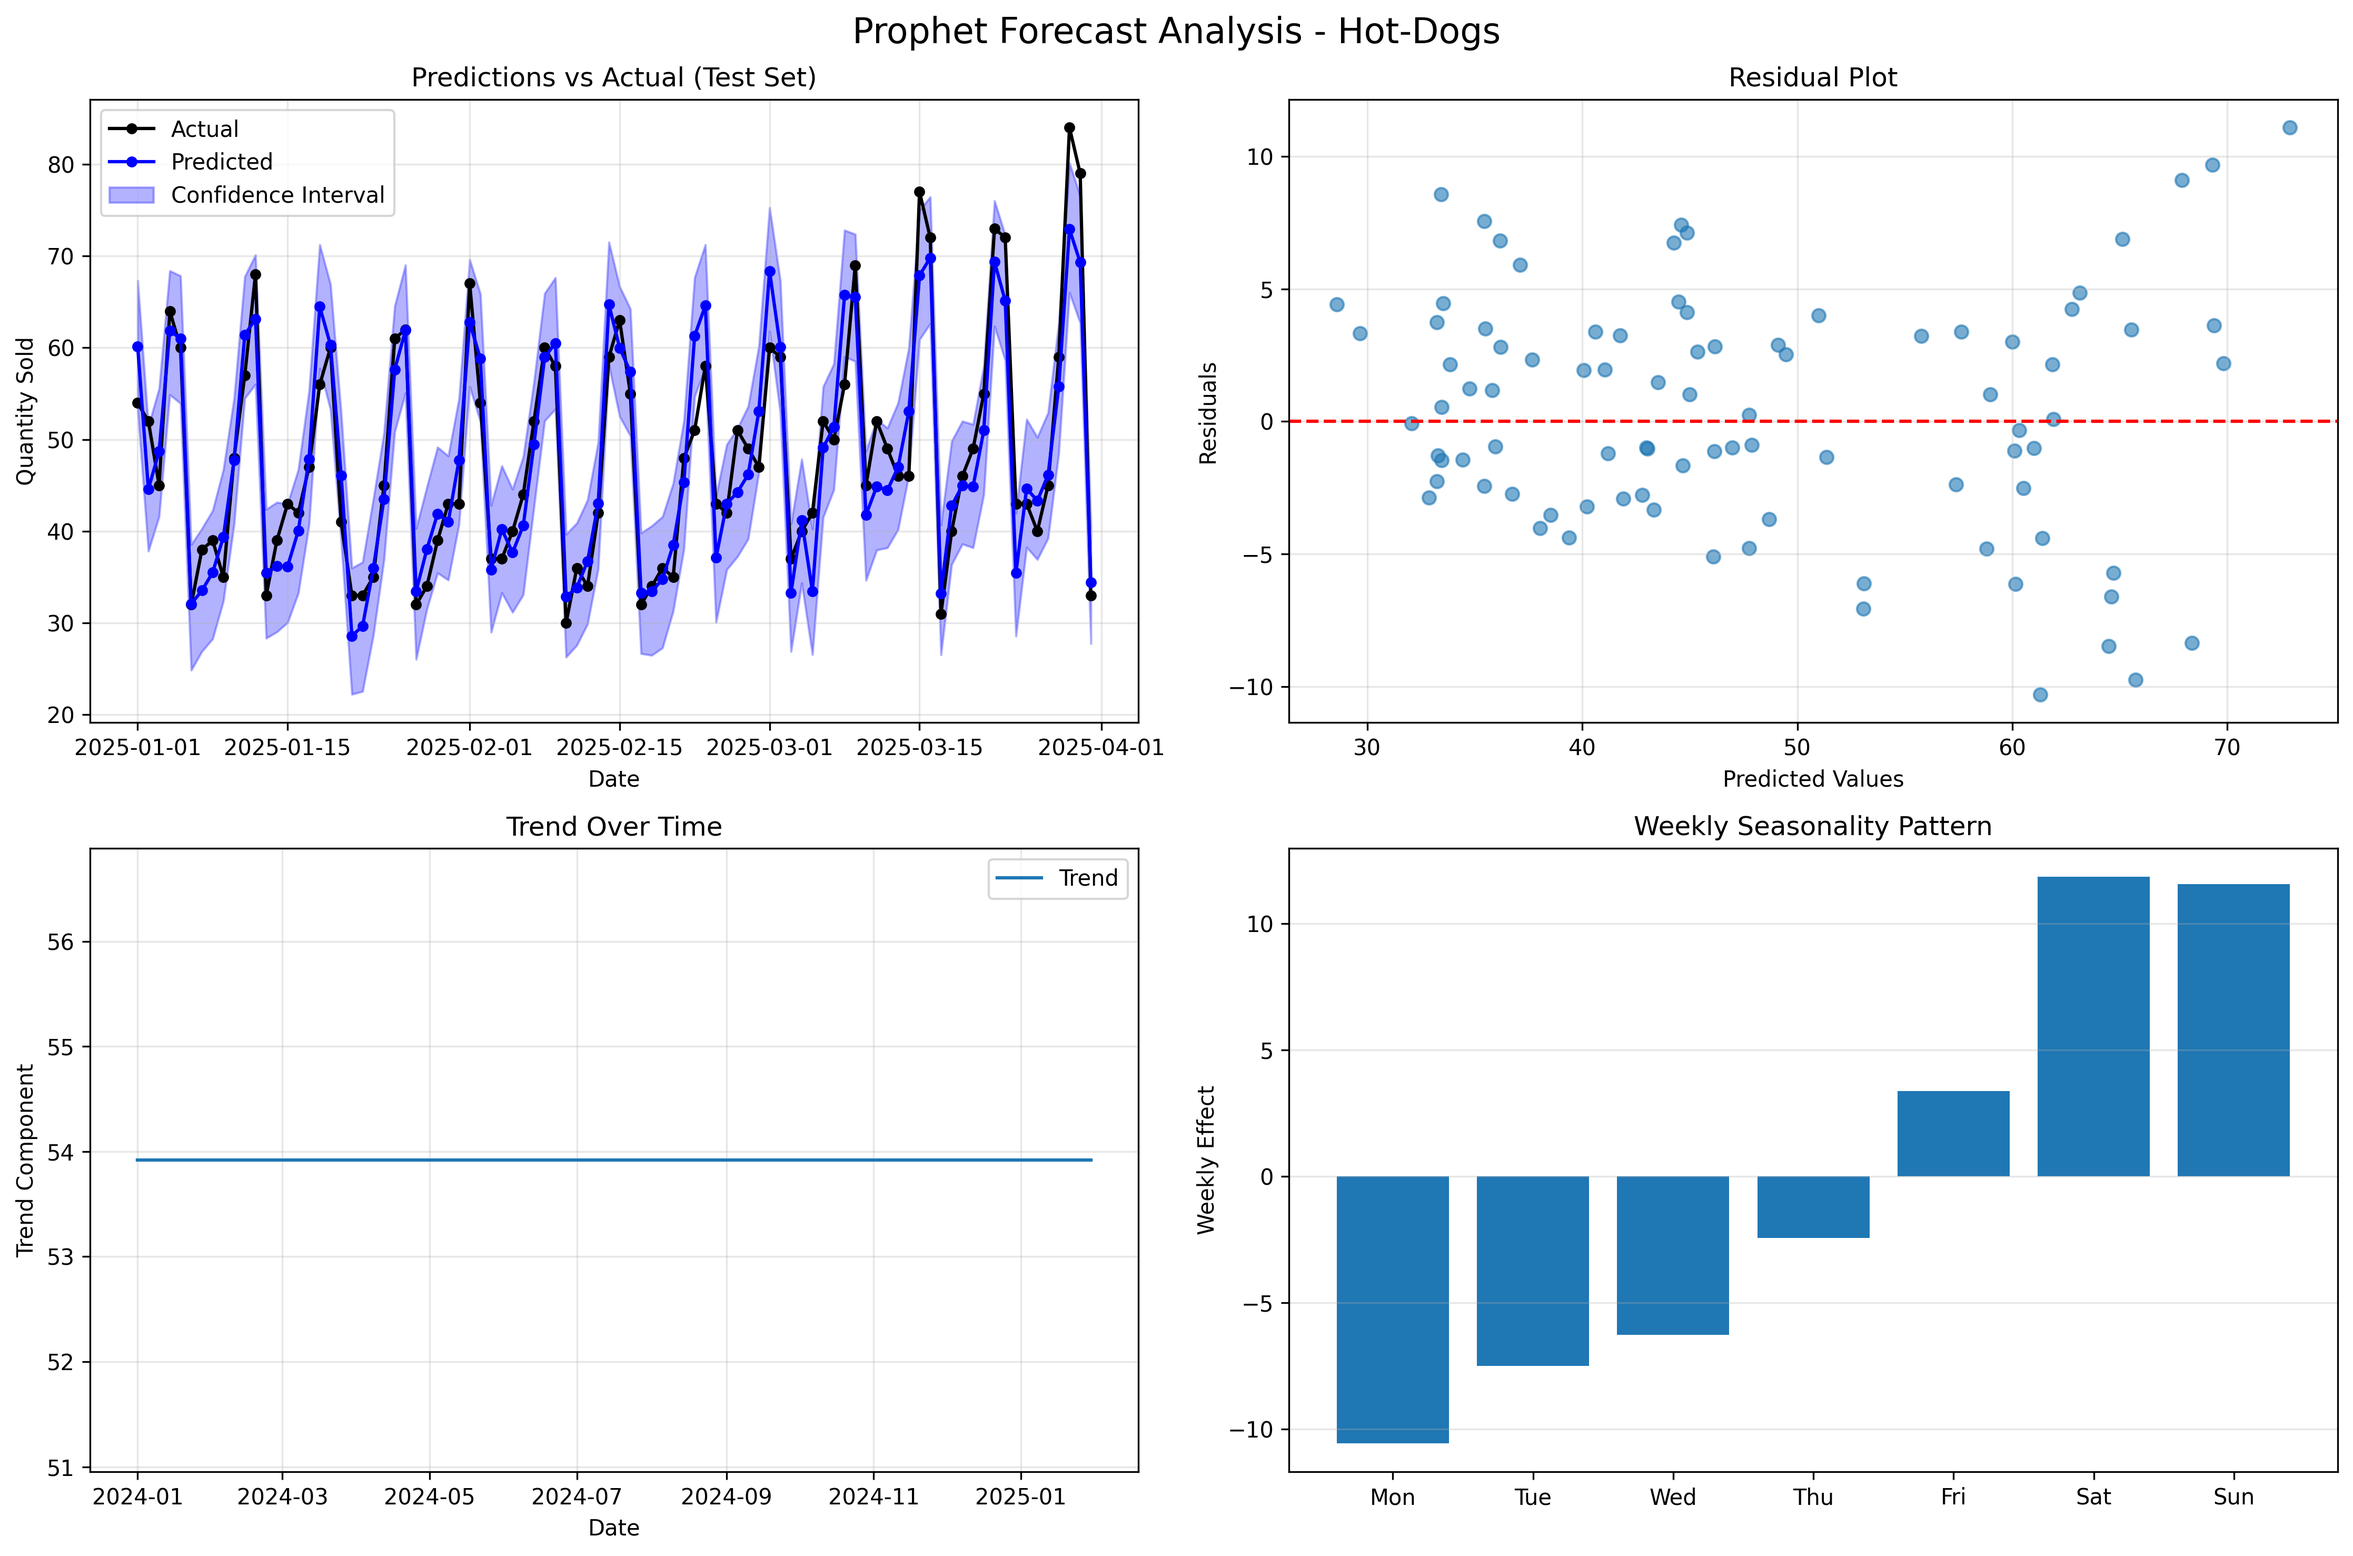
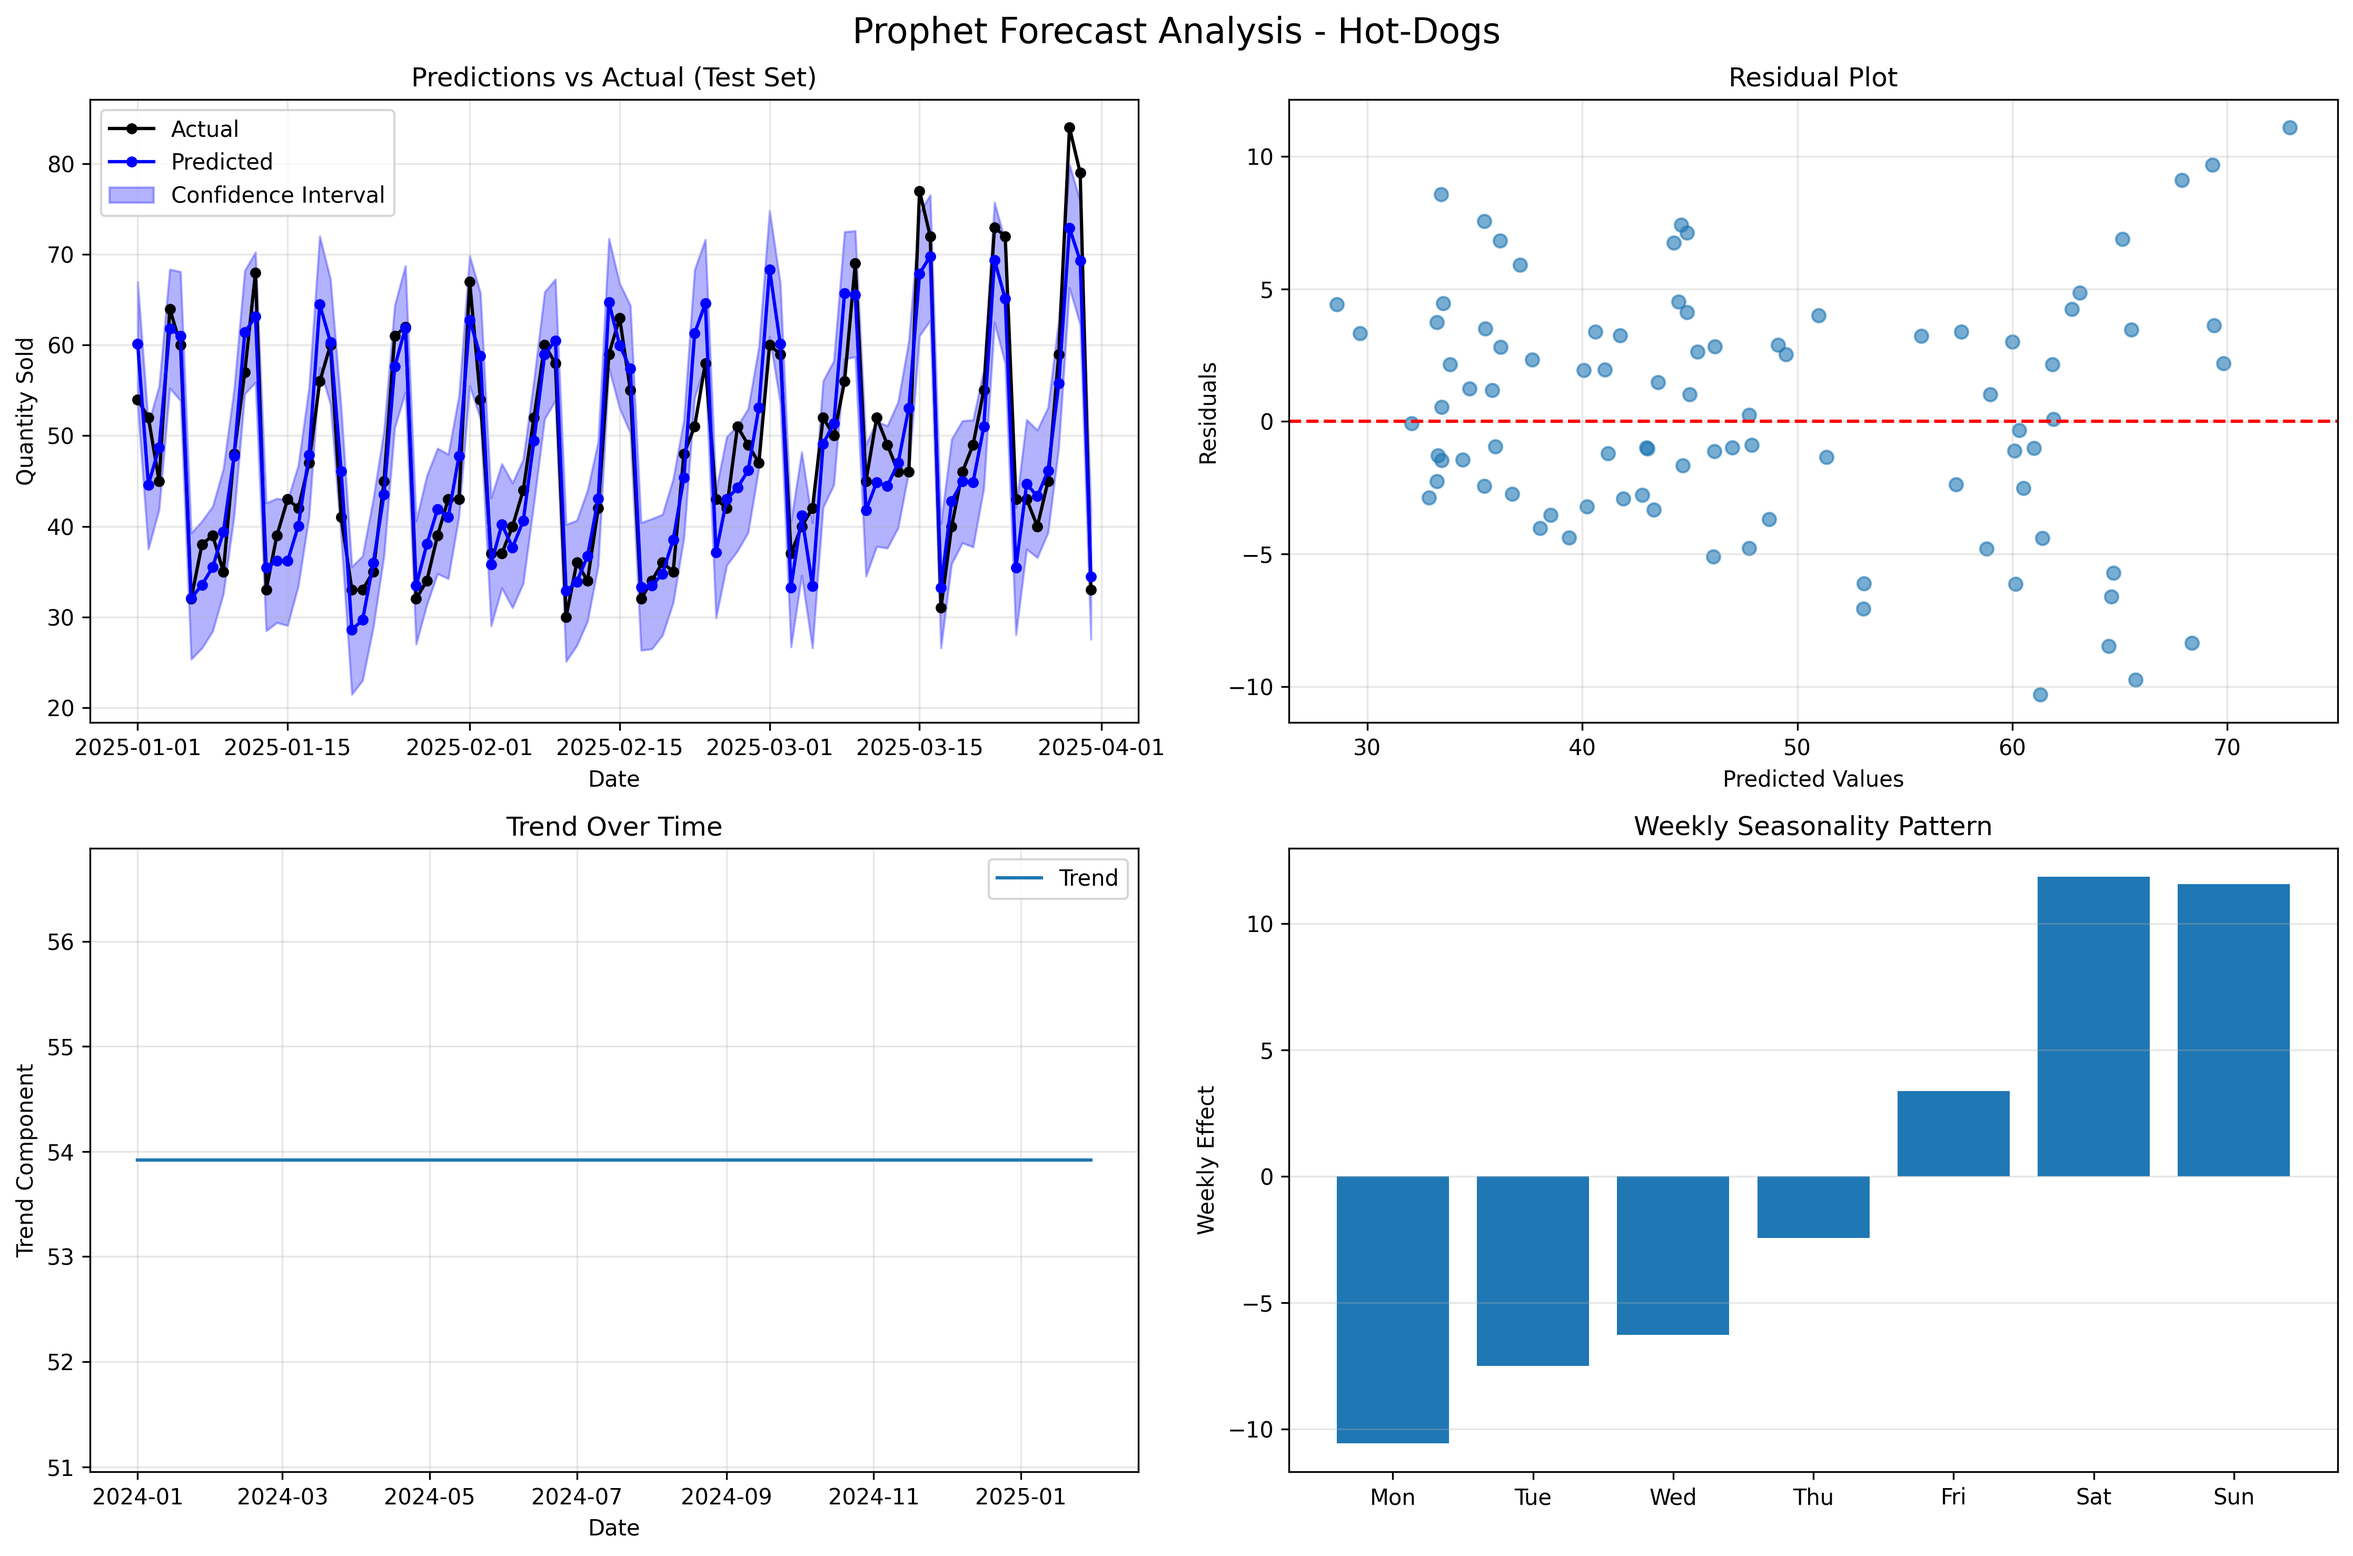
feat: changed predictions data to month-long

Changed region(s): [[0.0622, 0.2179, 0.4665, 0.4047], [0.2488, 0.2179, 0.2799, 0.2802]]

diff --git a/backend/model.py b/backend/model.py
@@ -269,7 +269,7 @@ def create_data_visualization(train_df, test_df, product_name):
 # FUTURE PREDICTIONS
 # ============================================================================
 
-def generate_future_predictions(model, train_df, product_name, days_ahead=7):
+def generate_future_predictions(model, train_df, product_name, days_ahead=30):
     """Generate predictions for future days"""
     
     print(f"\nGenerating {days_ahead}-day forecast for {product_name}...")
